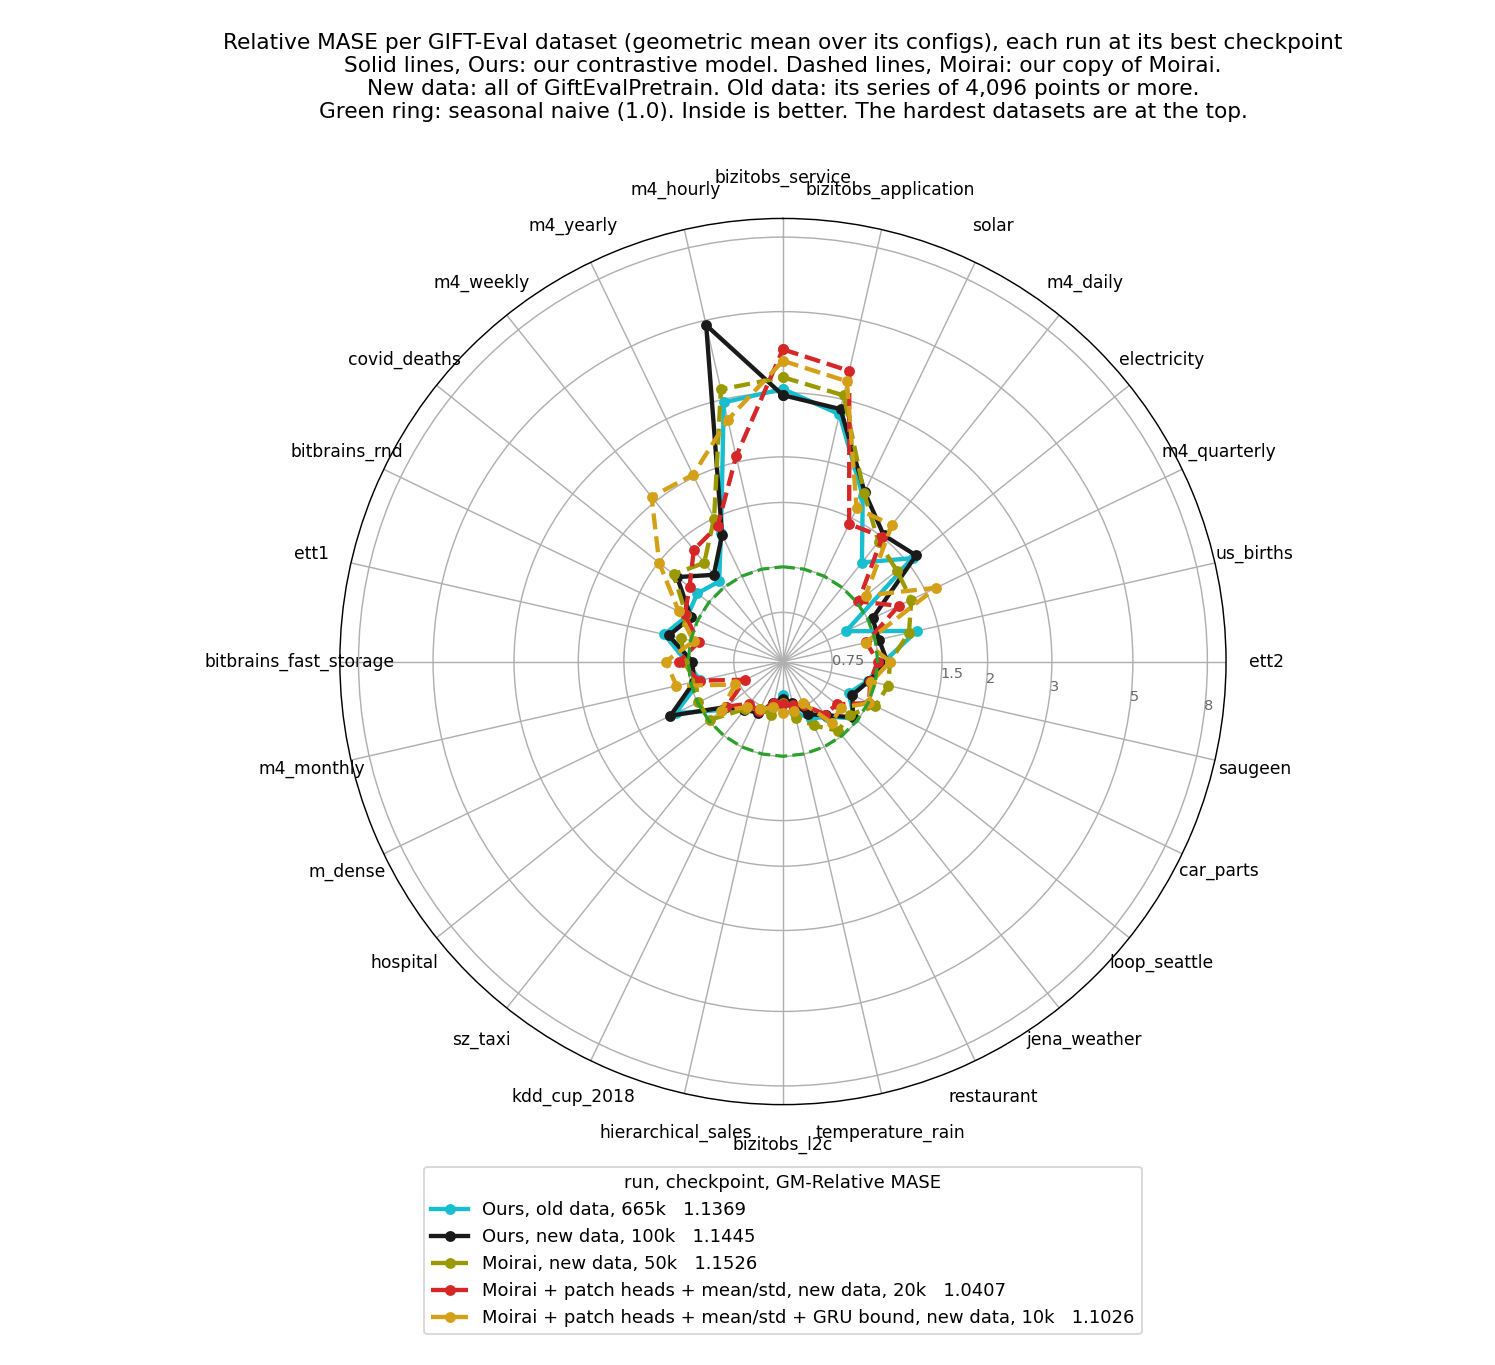
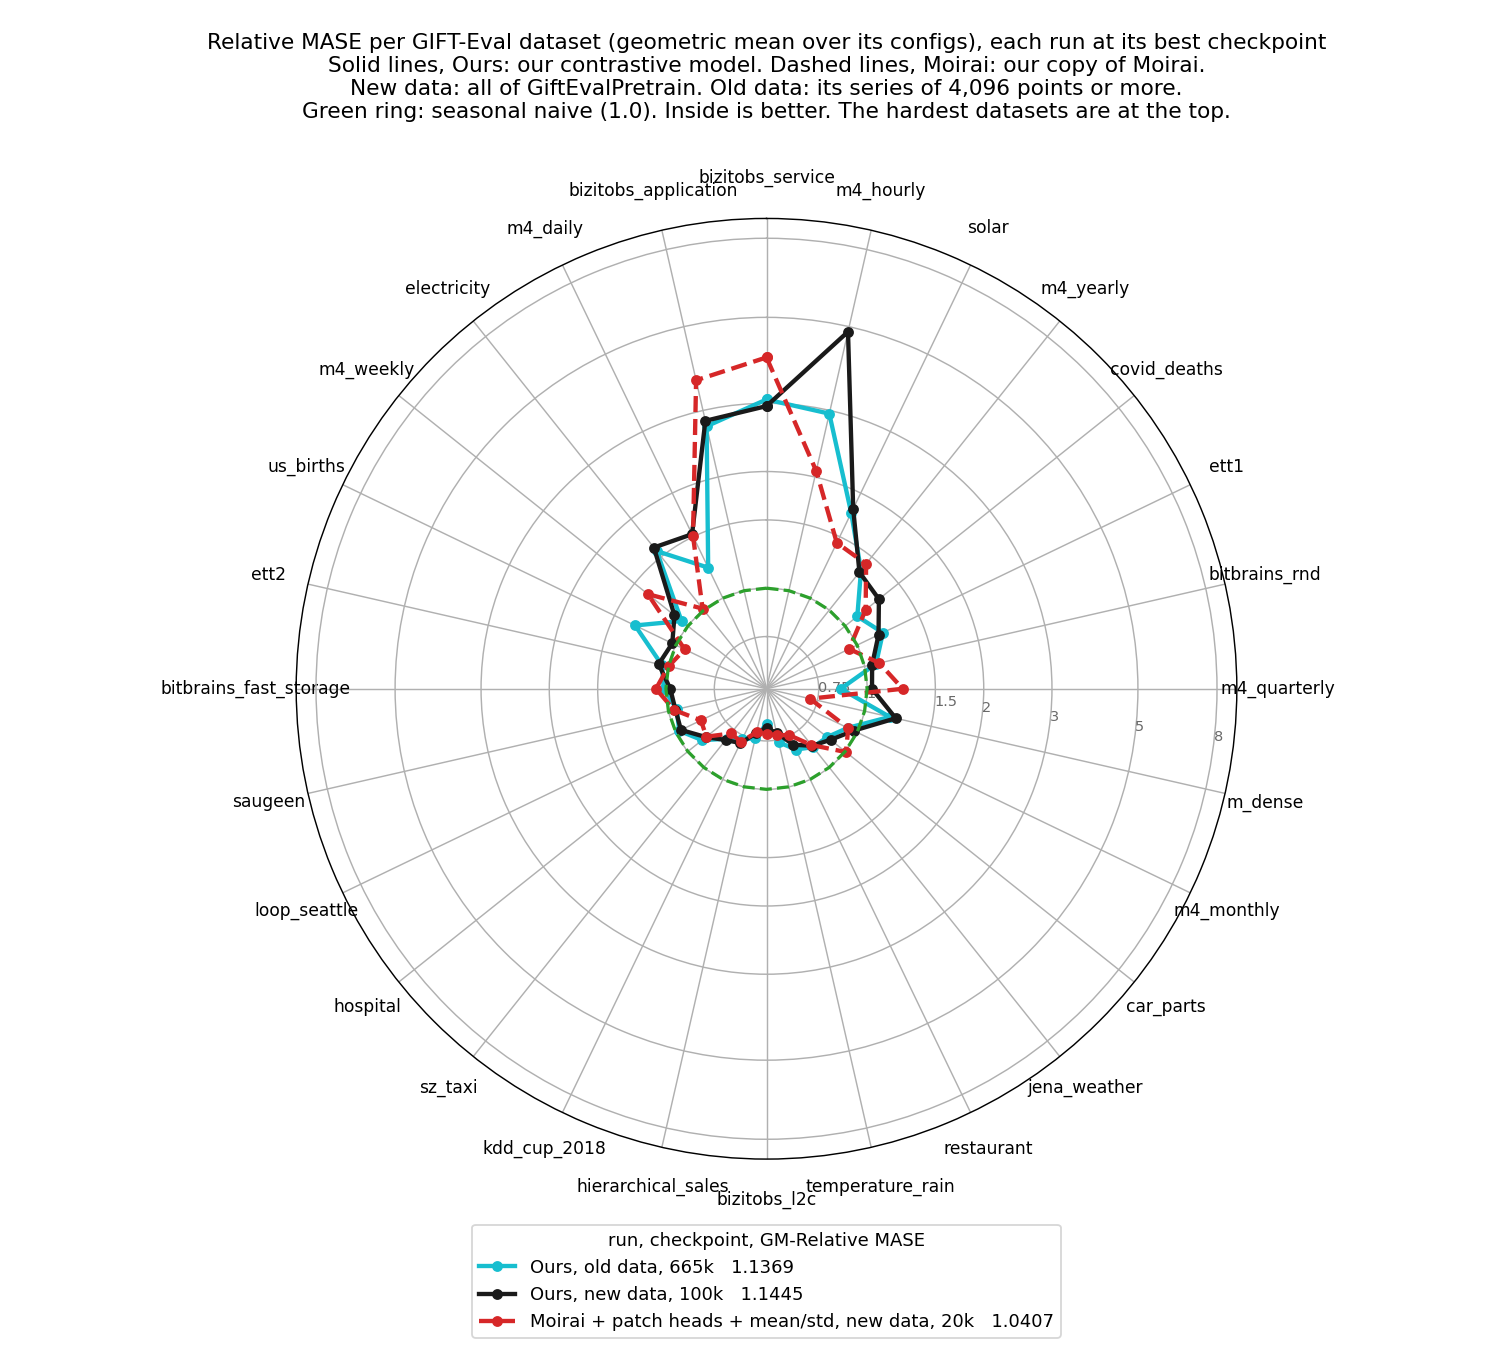
exp(#421): the figures leave out the stopped runs
The curves drop b2cos (the wrong width), the #419 Moirai run and the #421
fp16 and GRU-bound runs; the new-data radar drops the #419 Moirai run and
the GRU-bound run. Their scores stay in results/.

diff --git a/reports/2026-09-06_moirai_small_size/scripts/plot_gm_rates.py b/reports/2026-09-06_moirai_small_size/scripts/plot_gm_rates.py
@@ -19,22 +19,20 @@ OUT = STUDY / "plots" / "gm_mase_rates.png"
 # run_style.py, so a run looks the same in every figure.
 RUNS = [
     # Ours: our contrastive model. The lr 5.6e-4 run (arm P) keeps its scores in
-    # results/gm_trajectories.tsv; the owner took it off this figure.
+    # results/gm_trajectories.tsv; the owner took it off this figure. So do
+    # the stopped runs b2cos (1.1M, the wrong width), cf419_moirai_native,
+    # cf421z_moirai_native (fp16) and cf421fb_moirai_native (GRU bound).
     (P + "_lr10x",    "Ours, lr 5.6e-5, seed a",                  3.4, "o"),
     (P + "_lr10xb",   "Ours, lr 5.6e-5, seed b",                  3.4, "s"),
     (P + "_lr30x",    "Ours, lr 1.8e-5",                          4.0, "o"),
     (P + "_lr100x",   "Ours, lr 5.6e-6",                          4.0, "^"),
     (P + "_cos665k",  "Ours, lr cosine 6e-5→1e-6 over 665k",      4.0, "D"),
     (P + "_cos200k",  "Ours, lr cosine 5.6e-5→1e-6 by 200k",      4.0, "v"),
-    ("b2cos",         "Ours 1.1M, lr cosine 5.6e-5→1e-6 by 200k", 3.0, "P"),
     ("cf419_cos200k", "Ours, lr cosine by 200k, new data",        4.0, "*"),
     # Moirai: our copy of Moirai, trained on the values with its schedule.
     ("cf415_moirai",  "Moirai, separate head (B4)",               3.2, "X"),
     ("cf415_moirai_native", "Moirai, own head",                   2.4, "o"),
-    ("cf419_moirai_native", "Moirai, own head, new data",         3.0, "o"),
-    ("cf421z_moirai_native", "Moirai + patch heads + mean/std, fp16, new data", 3.4, "D"),
     ("cf421f_moirai_native", "Moirai + patch heads + mean/std, new data", 4.4, "X"),
-    ("cf421fb_moirai_native", "Moirai + patch heads + mean/std + GRU bound, new data", 3.8, "h"),
 ]
 SERIES = [(arm, label, colour(arm), width, marker, line(arm))
           for arm, label, width, marker in RUNS]

diff --git a/reports/2026-09-06_moirai_small_size/scripts/plot_radar_419.py b/reports/2026-09-06_moirai_small_size/scripts/plot_radar_419.py
@@ -10,12 +10,11 @@ from run_style import P, colour, line
 
 # Run name in results/, CSV prefix in the radar folder, legend label. The
 # colour and the line style come from run_style.py.
+# The stopped runs cf419_moirai_native and cf421fb_moirai_native keep their
+# CSVs in the radar folder; the owner took them off this figure.
 NEW_DATA = [
     ("cf419_cos200k", "cos419_", "Ours"),
-    ("cf419_moirai_native", "moirai419_native", "Moirai"),
     ("cf421f_moirai_native", "moirai421f_native", "Moirai + patch heads + mean/std"),
-    ("cf421fb_moirai_native", "moirai421fb_native",
-     "Moirai + patch heads + mean/std + GRU bound"),
 ]
 OLD_BEST = ("cyan665", "Ours, old data, 665k   1.1369",
             colour(P + "_cos200k"), line(P + "_cos200k"))
